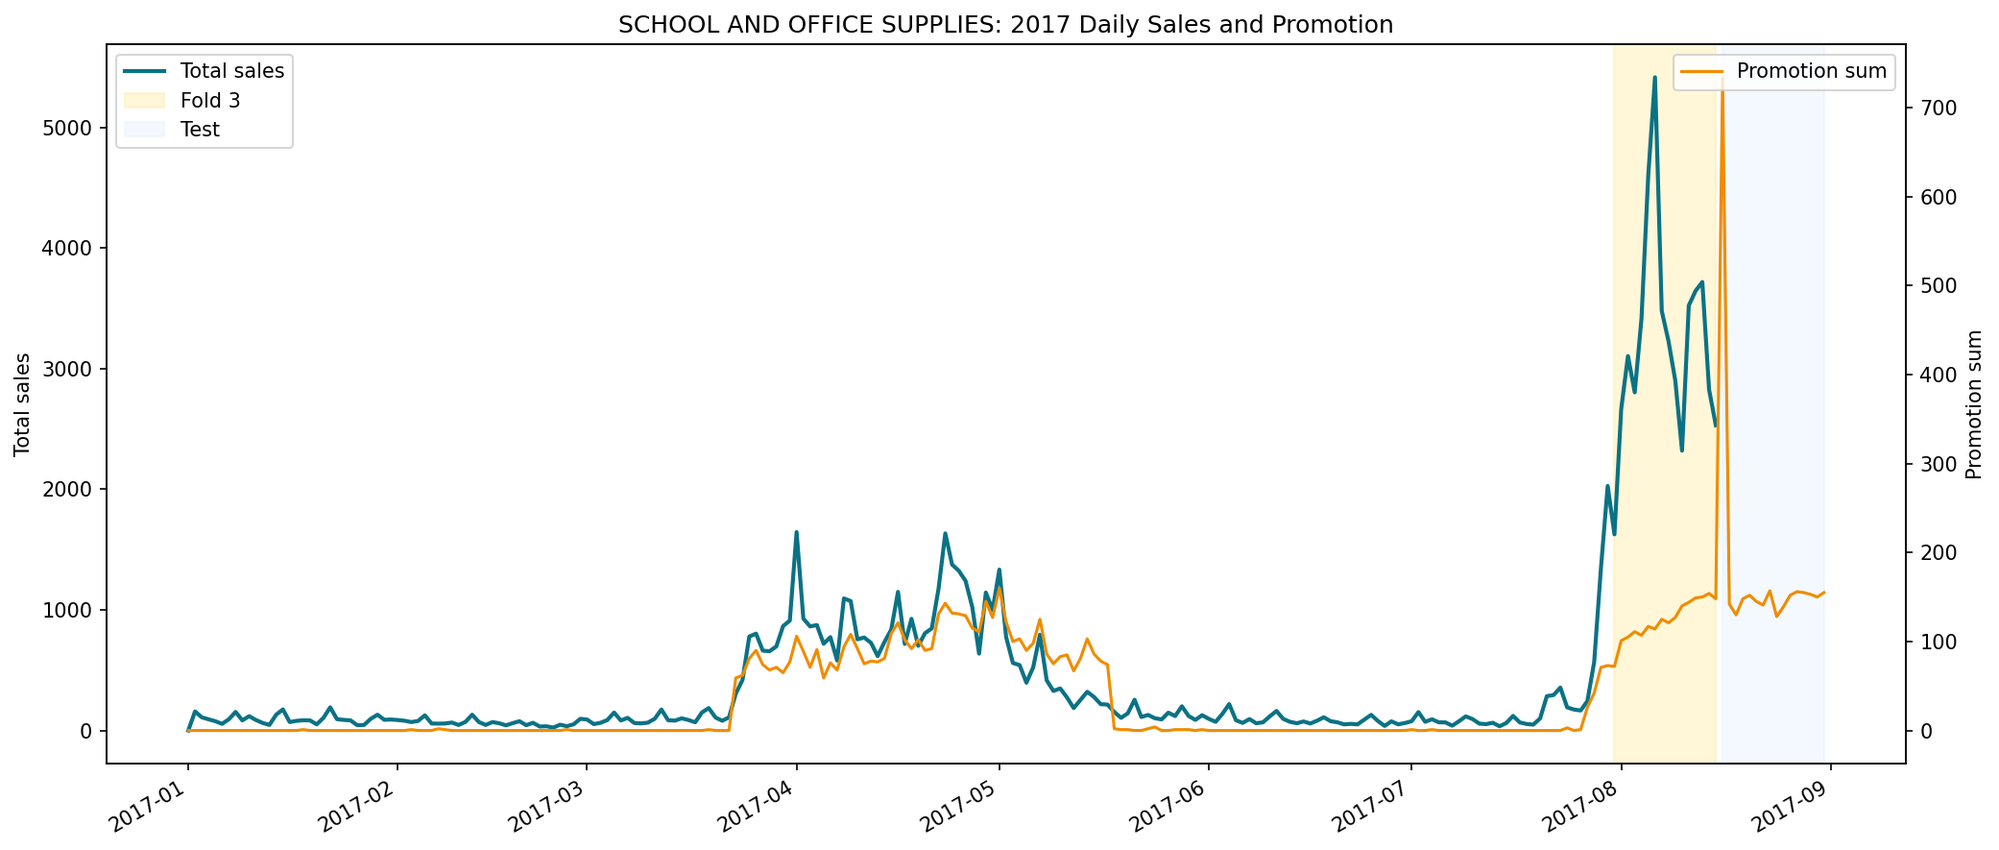
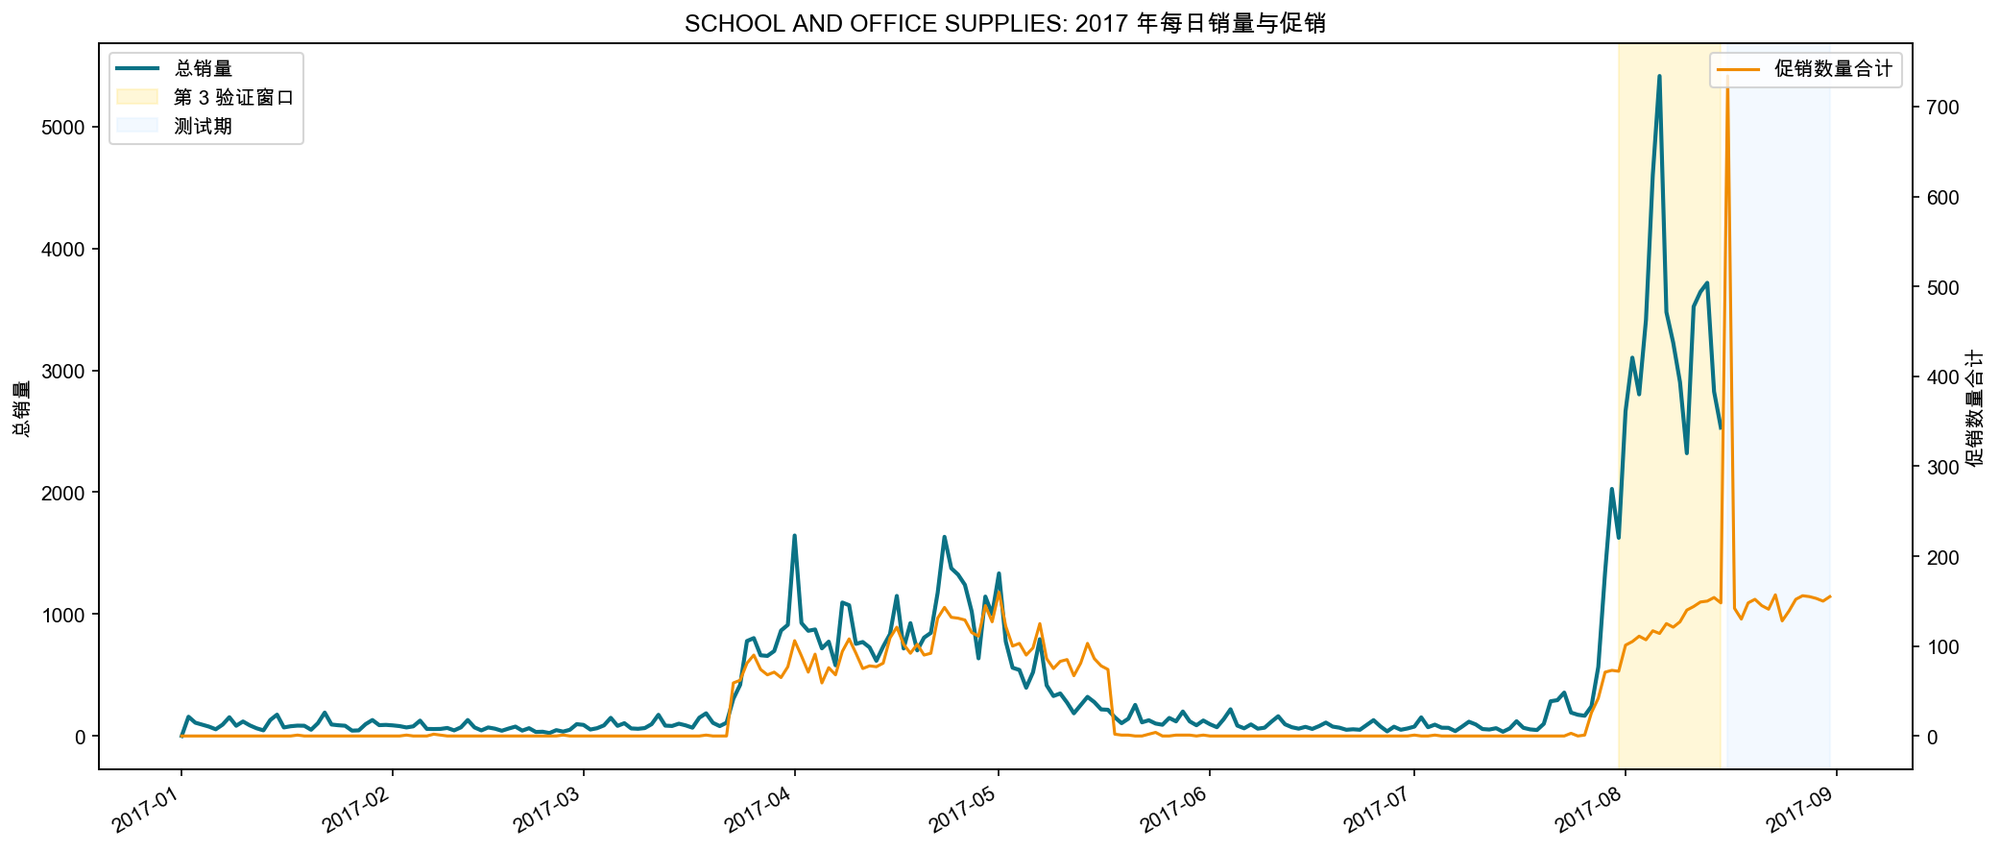
docs: localize family focus report

diff --git a/src/store_sales/family_focus_analysis.py b/src/store_sales/family_focus_analysis.py
@@ -25,8 +25,42 @@ from store_sales.error_analysis import (
 from store_sales.fold3_cross_error import compare_target_fold_to_prior
 
 
+plt.rcParams["font.sans-serif"] = ["PingFang SC", "Arial Unicode MS", "Noto Sans CJK SC", "SimHei", "DejaVu Sans"]
+plt.rcParams["axes.unicode_minus"] = False
+
 DEFAULT_FAMILY = "SCHOOL AND OFFICE SUPPLIES"
 SUPPORTED_TARGET_FOLD = 3
+REPORT_COLUMN_NAMES = {
+    "fold_id": "验证窗口",
+    "row_count": "样本数",
+    "rmsle": "RMSLE",
+    "mean_actual_sales": "真实销量均值",
+    "mean_predicted_sales": "预测销量均值",
+    "mean_signed_error": "平均预测误差",
+    "mean_onpromotion": "促销数量均值",
+    "year": "年份",
+    "month": "月份",
+    "total_sales": "总销量",
+    "promotion_sum": "促销数量合计",
+    "mean_sales": "销量均值",
+    "store_nbr": "门店编号",
+    "city": "城市",
+    "store_type": "门店类型",
+    "cluster": "门店簇",
+    "promotion_bin": "促销分箱",
+    "fold3_row_count": "第 3 窗口样本数",
+    "fold3_rmsle": "第 3 窗口 RMSLE",
+    "prior_rmsle": "前序窗口 RMSLE",
+    "rmsle_delta": "RMSLE 差值",
+    "fold3_error_share": "第 3 窗口误差占比",
+    "fold3_mean_actual_sales": "第 3 窗口真实销量均值",
+    "fold3_mean_predicted_sales": "第 3 窗口预测销量均值",
+    "fold3_mean_onpromotion": "第 3 窗口促销数量均值",
+    "test_row_count": "测试期样本数",
+    "test_mean_onpromotion": "测试期促销数量均值",
+    "test_promotion_sum": "测试期促销数量合计",
+    "has_fold3_error_signal": "是否有第 3 窗口误差信号",
+}
 
 
 @dataclass(slots=True)
@@ -145,6 +179,10 @@ def save_plot(path: Path) -> None:
     plt.tight_layout()
     plt.savefig(path, dpi=150, bbox_inches="tight")
     plt.close()
+
+
+def rename_columns_for_report(frame: pd.DataFrame) -> pd.DataFrame:
+    return frame.rename(columns=REPORT_COLUMN_NAMES)
 
 
 def build_monthly_history(focus_train: pd.DataFrame, paths: FamilyFocusPaths) -> pd.DataFrame:
@@ -312,13 +350,13 @@ def plot_2017_daily(daily: pd.DataFrame, paths: FamilyFocusPaths, family: str) -
     train_part = daily[daily["period"] != "test"].copy()
     fig, ax_sales = plt.subplots(figsize=(14, 6))
     ax_promo = ax_sales.twinx()
-    ax_sales.plot(train_part["date"], train_part["total_sales"], color="#0b7285", linewidth=2, label="Total sales")
-    ax_promo.plot(daily["date"], daily["promotion_sum"], color="#f08c00", linewidth=1.5, label="Promotion sum")
-    ax_sales.axvspan(pd.Timestamp("2017-07-31"), pd.Timestamp("2017-08-15"), color="#ffe066", alpha=0.25, label="Fold 3")
-    ax_sales.axvspan(pd.Timestamp("2017-08-16"), pd.Timestamp("2017-08-31"), color="#d0ebff", alpha=0.25, label="Test")
-    ax_sales.set_title(f"{family}: 2017 Daily Sales and Promotion")
-    ax_sales.set_ylabel("Total sales")
-    ax_promo.set_ylabel("Promotion sum")
+    ax_sales.plot(train_part["date"], train_part["total_sales"], color="#0b7285", linewidth=2, label="总销量")
+    ax_promo.plot(daily["date"], daily["promotion_sum"], color="#f08c00", linewidth=1.5, label="促销数量合计")
+    ax_sales.axvspan(pd.Timestamp("2017-07-31"), pd.Timestamp("2017-08-15"), color="#ffe066", alpha=0.25, label="第 3 验证窗口")
+    ax_sales.axvspan(pd.Timestamp("2017-08-16"), pd.Timestamp("2017-08-31"), color="#d0ebff", alpha=0.25, label="测试期")
+    ax_sales.set_title(f"{family}: 2017 年每日销量与促销")
+    ax_sales.set_ylabel("总销量")
+    ax_promo.set_ylabel("促销数量合计")
     ax_sales.xaxis.set_major_locator(mdates.MonthLocator(interval=1))
     ax_sales.xaxis.set_major_formatter(mdates.DateFormatter("%Y-%m"))
     ax_sales.legend(loc="upper left")
@@ -331,12 +369,12 @@ def plot_monthly_history(monthly: pd.DataFrame, paths: FamilyFocusPaths, family:
     fig, ax = plt.subplots(figsize=(12, 6))
     for year, frame in monthly.groupby("year", observed=True):
         ax.plot(frame["month"], frame["total_sales"], marker="o", linewidth=1.8, label=str(year))
-    ax.set_title(f"{family}: Monthly Total Sales by Year")
-    ax.set_xlabel("Month")
-    ax.set_ylabel("Total sales")
+    ax.set_title(f"{family}: 按年份对比月度总销量")
+    ax.set_xlabel("月份")
+    ax.set_ylabel("总销量")
     ax.set_xticks(range(1, 13))
     ax.grid(axis="y", alpha=0.25)
-    ax.legend(title="Year", ncols=3)
+    ax.legend(title="年份", ncols=3)
     save_plot(paths.figures_dir / "monthly_sales_by_year.png")
 
 
@@ -344,9 +382,9 @@ def plot_fold3_top_stores(store_error: pd.DataFrame, paths: FamilyFocusPaths, fa
     top = store_error.head(10).sort_values("fold3_rmsle")
     labels = top["store_nbr"].astype(str) + " " + top["city"].astype(str)
     fig, ax = plt.subplots(figsize=(10, 6))
-    ax.barh(labels, top["fold3_rmsle"], color="#c92a2a", label="Fold 3")
-    ax.scatter(top["prior_rmsle"], labels, color="#1864ab", label="Prior folds", zorder=3)
-    ax.set_title(f"{family}: Top Fold 3 Store Error")
+    ax.barh(labels, top["fold3_rmsle"], color="#c92a2a", label="第 3 验证窗口")
+    ax.scatter(top["prior_rmsle"], labels, color="#1864ab", label="前序窗口", zorder=3)
+    ax.set_title(f"{family}: 第 3 验证窗口高误差门店")
     ax.set_xlabel("RMSLE")
     ax.legend()
     save_plot(paths.figures_dir / "fold3_top_store_error.png")
@@ -380,6 +418,7 @@ def write_report(
     ].copy()
     fold_display["fold_id"] = fold_display["fold_id"].astype("int64").astype("string")
     fold_display["row_count"] = fold_display["row_count"].astype("int64").astype("string")
+    fold_display = rename_columns_for_report(fold_display)
 
     monthly_display = monthly[monthly["month"].isin([3, 4, 7, 8, 9])][
         ["year", "month", "total_sales", "promotion_sum", "mean_sales", "mean_onpromotion"]
@@ -387,6 +426,7 @@ def write_report(
     monthly_display = monthly_display.copy()
     monthly_display["year"] = monthly_display["year"].astype("int64").astype("string")
     monthly_display["month"] = monthly_display["month"].astype("int64").astype("string")
+    monthly_display = rename_columns_for_report(monthly_display)
     store_columns = [
         "store_nbr",
         "city",
@@ -437,66 +477,73 @@ def write_report(
 
     top_new = new_store_promotion.iloc[0] if not new_store_promotion.empty else None
     top_test_overlap = test_overlap[test_overlap["has_fold3_error_signal"]].head(10)
+    store_display = rename_columns_for_report(store_error[store_columns])
+    store_promotion_display = rename_columns_for_report(store_promotion_error[store_promotion_columns])
+    new_store_promotion_display = rename_columns_for_report(new_store_promotion[new_columns])
+    top_test_overlap_display = rename_columns_for_report(top_test_overlap[test_columns])
+    if "是否有第 3 窗口误差信号" in top_test_overlap_display.columns:
+        top_test_overlap_display["是否有第 3 窗口误差信号"] = top_test_overlap_display["是否有第 3 窗口误差信号"].map(
+            {True: "是", False: "否"}
+        )
 
     lines = [
-        f"# Family Focus Analysis: {family}",
+        f"# 品类单独分析：{family}",
         "",
-        "This report diagnoses one family after fold 3 cross-error analysis. It does not change the model.",
+        "本报告是在第 3 验证窗口交叉误差分析之后，对单个品类做诊断。它只用于定位问题，不改变模型，也不生成新的提交文件。",
         "",
-        "## Key Findings",
+        "## 核心发现",
         "",
-        f"- August 2017 total sales for this family are `{focus_2017_august['total_sales']:.0f}`, much higher than July 2017 and prior August levels.",
-        f"- Fold 3 prediction error is concentrated in high-promotion type A / Quito-Ambato store segments for `{family}`.",
-        f"- Top fold 3 store segment: store `{int(store_error.iloc[0]['store_nbr'])}` in `{store_error.iloc[0]['city']}`.",
-        f"- Test-period promotions continue to be high for type A stores, so this family remains relevant for submission risk.",
+        f"- 2017 年 8 月该品类总销量为 `{focus_2017_august['total_sales']:.0f}`，明显高于 2017 年 7 月和历史 8 月低位。",
+        f"- 第 3 验证窗口误差集中在 `{family}` 的高促销、type A / Quito-Ambato 门店片段。",
+        f"- 第 3 验证窗口误差最高的门店片段是 `{store_error.iloc[0]['city']}` 的门店 `{int(store_error.iloc[0]['store_nbr'])}`。",
+        "- 测试期 type A 门店仍有较高促销，因此这个品类仍然是提交风险点。",
     ]
     if top_new is not None:
         lines.append(
-            f"- Strongest new fold 3 store-promotion segment: store `{int(top_new['store_nbr'])}` "
-            f"with promotion bin `{top_new['promotion_bin']}`, actual mean `{top_new['fold3_mean_actual_sales']:.1f}`, "
-            f"predicted mean `{top_new['fold3_mean_predicted_sales']:.1f}`."
+            f"- 最强第 3 验证窗口新组合是门店 `{int(top_new['store_nbr'])}` + 促销分箱 `{top_new['promotion_bin']}`，"
+            f"真实销量均值 `{top_new['fold3_mean_actual_sales']:.1f}`，预测销量均值 `{top_new['fold3_mean_predicted_sales']:.1f}`。"
         )
 
     lines.extend(
         [
             "",
-            "## Fold Summary",
+            "## 验证窗口汇总",
             "",
             dataframe_to_markdown(fold_display, max_rows=len(fold_display)),
             "",
-            "## Monthly History Snapshot",
+            "## 月度历史快照",
             "",
             dataframe_to_markdown(monthly_display, max_rows=len(monthly_display)),
             "",
-            "## Fold 3 Store Error",
+            "## 第 3 验证窗口门店误差",
             "",
-            dataframe_to_markdown(store_error[store_columns]),
+            dataframe_to_markdown(store_display),
             "",
-            "## Fold 3 Store Promotion Error",
+            "## 第 3 验证窗口门店促销误差",
             "",
-            "This table prioritizes segments that can be compared against prior folds. Fold 3-only high-promotion segments are shown in the next table.",
+            "这张表优先展示能和前序窗口对比的片段。只在第 3 验证窗口出现的高促销组合见下一张表。",
             "",
-            dataframe_to_markdown(store_promotion_error[store_promotion_columns]),
+            dataframe_to_markdown(store_promotion_display),
             "",
-            "## New Fold 3 Store Promotion Segments",
+            "## 第 3 验证窗口新出现的门店促销组合",
             "",
-            "These store-promotion combinations appear in fold 3 but not in prior folds for this family.",
+            "这些门店-促销组合在该品类的第 3 验证窗口中出现，但没有出现在前序窗口中。",
             "",
-            dataframe_to_markdown(new_store_promotion[new_columns]),
+            dataframe_to_markdown(new_store_promotion_display),
             "",
-            "## Test Promotion Risk Overlap",
+            "## 测试期促销风险重叠",
             "",
-            dataframe_to_markdown(top_test_overlap[test_columns], max_rows=10),
+            dataframe_to_markdown(top_test_overlap_display, max_rows=10),
             "",
-            "## Figures",
+            "## 图表",
             "",
-            "![2017 daily sales and promotion](figures/daily_2017_sales_promotion.png)",
+            "![2017 年每日销量与促销](figures/daily_2017_sales_promotion.png)",
             "",
-            "![Monthly sales by year](figures/monthly_sales_by_year.png)",
+            "![按年份对比月度销量](figures/monthly_sales_by_year.png)",
             "",
-            "![Fold 3 top store error](figures/fold3_top_store_error.png)",
+            "![第 3 验证窗口高误差门店](figures/fold3_top_store_error.png)",
             "",
-            "## Generated Tables",
+            "## 生成的表格",
             "",
             "- `tables/monthly_history.csv`",
             "- `tables/daily_2017_focus.csv`",
@@ -506,12 +553,12 @@ def write_report(
             "- `tables/family_fold3_new_store_promotion_segments.csv`",
             "- `tables/test_promotion_risk_overlap.csv`",
             "",
-            "## Interpretation",
+            "## 解释与判断",
             "",
-            "- The evidence supports a targeted issue for this family, not a general low-demand fix.",
-            "- The data shows underprediction in fold 3 high-promotion type A / Quito-Ambato store segments.",
-            "- The next feature experiment should target August timing and promotion behavior for this family; a school-season explanation remains a hypothesis.",
-            "- This report is diagnostic; it does not prove the external business cause of the pattern.",
+            "- 现有证据支持这是该品类的局部问题，不适合继续用泛化低需求特征处理。",
+            "- 第 3 验证窗口中，高促销、type A / Quito-Ambato 门店片段存在明显低估。",
+            "- 下一步特征实验应优先针对该品类的 8 月时间效应和促销响应；“开学季”只能作为待验证假设。",
+            "- 本报告是诊断报告，只能说明数据模式和模型误差集中位置，不能证明外部业务原因。",
         ]
     )
     paths.report_path.write_text("\n".join(lines) + "\n", encoding="utf-8")

diff --git a/reports/family_focus/school_office_supplies/family_focus_report.md b/reports/family_focus/school_office_supplies/family_focus_report.md
@@ -1,26 +1,26 @@
-# Family Focus Analysis: SCHOOL AND OFFICE SUPPLIES
+# 品类单独分析：SCHOOL AND OFFICE SUPPLIES
 
-This report diagnoses one family after fold 3 cross-error analysis. It does not change the model.
+本报告是在第 3 验证窗口交叉误差分析之后，对单个品类做诊断。它只用于定位问题，不改变模型，也不生成新的提交文件。
 
-## Key Findings
+## 核心发现
 
-- August 2017 total sales for this family are `50169`, much higher than July 2017 and prior August levels.
-- Fold 3 prediction error is concentrated in high-promotion type A / Quito-Ambato store segments for `SCHOOL AND OFFICE SUPPLIES`.
-- Top fold 3 store segment: store `47` in `Quito`.
-- Test-period promotions continue to be high for type A stores, so this family remains relevant for submission risk.
-- Strongest new fold 3 store-promotion segment: store `47` with promotion bin `11-50`, actual mean `538.4`, predicted mean `33.6`.
+- 2017 年 8 月该品类总销量为 `50169`，明显高于 2017 年 7 月和历史 8 月低位。
+- 第 3 验证窗口误差集中在 `SCHOOL AND OFFICE SUPPLIES` 的高促销、type A / Quito-Ambato 门店片段。
+- 第 3 验证窗口误差最高的门店片段是 `Quito` 的门店 `47`。
+- 测试期 type A 门店仍有较高促销，因此这个品类仍然是提交风险点。
+- 最强第 3 验证窗口新组合是门店 `47` + 促销分箱 `11-50`，真实销量均值 `538.4`，预测销量均值 `33.6`。
 
-## Fold Summary
+## 验证窗口汇总
 
-| fold_id | row_count | rmsle | mean_actual_sales | mean_predicted_sales | mean_signed_error | mean_onpromotion |
+| 验证窗口 | 样本数 | RMSLE | 真实销量均值 | 预测销量均值 | 平均预测误差 | 促销数量均值 |
 | --- | --- | --- | --- | --- | --- | --- |
 | 1 | 864 | 0.434057 | 1.366898 | 1.274311 | -0.092587 | 0.002315 |
 | 2 | 864 | 0.641590 | 7.063657 | 1.332382 | -5.731276 | 0.250000 |
 | 3 | 864 | 0.866511 | 59.947917 | 18.501496 | -41.446421 | 2.297454 |
 
-## Monthly History Snapshot
+## 月度历史快照
 
-| year | month | total_sales | promotion_sum | mean_sales | mean_onpromotion |
+| 年份 | 月份 | 总销量 | 促销数量合计 | 销量均值 | 促销数量均值 |
 | --- | --- | --- | --- | --- | --- |
 | 2013 | 9 | 0.000000 | 0 | 0.000000 | 0.000000 |
 | 2014 | 3 | 2235.000000 | 0 | 1.335125 | 0.000000 |
@@ -43,9 +43,9 @@ This report diagnoses one family after fold 3 cross-error analysis. It does not 
 | 2017 | 7 | 8797.000000 | 290 | 5.255078 | 0.173238 |
 | 2017 | 8 | 50169.000000 | 1913 | 61.937038 | 2.361728 |
 
-## Fold 3 Store Error
+## 第 3 验证窗口门店误差
 
-| store_nbr | city | store_type | cluster | fold3_rmsle | prior_rmsle | rmsle_delta | fold3_mean_actual_sales | fold3_mean_predicted_sales | fold3_mean_onpromotion |
+| 门店编号 | 城市 | 门店类型 | 门店簇 | 第 3 窗口 RMSLE | 前序窗口 RMSLE | RMSLE 差值 | 第 3 窗口真实销量均值 | 第 3 窗口预测销量均值 | 第 3 窗口促销数量均值 |
 | --- | --- | --- | --- | --- | --- | --- | --- | --- | --- |
 | 47 | Quito | A | 14 | 2.735861 | 0.721499 | 2.014362 | 523.437500 | 32.604855 | 12.000000 |
 | 44 | Quito | A | 5 | 2.665396 | 0.591897 | 2.073498 | 393.750000 | 25.889929 | 12.000000 |
@@ -58,11 +58,11 @@ This report diagnoses one family after fold 3 cross-error analysis. It does not 
 | 51 | Guayaquil | A | 17 | 0.847989 | 0.584243 | 0.263745 | 3.875000 | 4.396971 | 0.000000 |
 | 17 | Quito | C | 12 | 0.588754 | 0.235964 | 0.352790 | 11.562500 | 4.956986 | 2.000000 |
 
-## Fold 3 Store Promotion Error
+## 第 3 验证窗口门店促销误差
 
-This table prioritizes segments that can be compared against prior folds. Fold 3-only high-promotion segments are shown in the next table.
+这张表优先展示能和前序窗口对比的片段。只在第 3 验证窗口出现的高促销组合见下一张表。
 
-| store_nbr | city | store_type | promotion_bin | fold3_row_count | fold3_rmsle | prior_rmsle | rmsle_delta | fold3_mean_actual_sales | fold3_mean_predicted_sales |
+| 门店编号 | 城市 | 门店类型 | 促销分箱 | 第 3 窗口样本数 | 第 3 窗口 RMSLE | 前序窗口 RMSLE | RMSLE 差值 | 第 3 窗口真实销量均值 | 第 3 窗口预测销量均值 |
 | --- | --- | --- | --- | --- | --- | --- | --- | --- | --- |
 | 38 | Loja | D | 0 | 16 | 1.244050 | 0.182788 | 1.061263 | 4.937500 | 0.208907 |
 | 9 | Quito | B | 6-10 | 15 | 1.501075 | 0.893248 | 0.607827 | 145.200000 | 31.893541 |
@@ -75,11 +75,11 @@ This table prioritizes segments that can be compared against prior folds. Fold 3
 | 26 | Guayaquil | D | 0 | 16 | 0.505743 | 0.428631 | 0.077112 | 0.812500 | 0.446550 |
 | 31 | Babahoyo | B | 0 | 15 | 0.631314 | 0.568273 | 0.063041 | 1.466667 | 1.639388 |
 
-## New Fold 3 Store Promotion Segments
+## 第 3 验证窗口新出现的门店促销组合
 
-These store-promotion combinations appear in fold 3 but not in prior folds for this family.
+这些门店-促销组合在该品类的第 3 验证窗口中出现，但没有出现在前序窗口中。
 
-| store_nbr | city | store_type | promotion_bin | fold3_row_count | fold3_rmsle | fold3_error_share | fold3_mean_actual_sales | fold3_mean_predicted_sales |
+| 门店编号 | 城市 | 门店类型 | 促销分箱 | 第 3 窗口样本数 | 第 3 窗口 RMSLE | 第 3 窗口误差占比 | 第 3 窗口真实销量均值 | 第 3 窗口预测销量均值 |
 | --- | --- | --- | --- | --- | --- | --- | --- | --- |
 | 47 | Quito | A | 11-50 | 15 | 2.733045 | 0.172712 | 538.400000 | 33.601619 |
 | 44 | Quito | A | 11-50 | 15 | 2.697563 | 0.168257 | 414.200000 | 26.982084 |
@@ -92,30 +92,30 @@ These store-promotion combinations appear in fold 3 but not in prior folds for t
 | 15 | Ibarra | C | 2-5 | 7 | 0.657461 | 0.004664 | 9.857143 | 7.222817 |
 | 11 | Cayambe | B | 6-10 | 9 | 0.509424 | 0.003600 | 27.666667 | 19.293776 |
 
-## Test Promotion Risk Overlap
+## 测试期促销风险重叠
 
-| store_nbr | city | store_type | promotion_bin | test_row_count | test_mean_onpromotion | test_promotion_sum | has_fold3_error_signal | fold3_rmsle | fold3_error_share |
+| 门店编号 | 城市 | 门店类型 | 促销分箱 | 测试期样本数 | 测试期促销数量均值 | 测试期促销数量合计 | 是否有第 3 窗口误差信号 | 第 3 窗口 RMSLE | 第 3 窗口误差占比 |
 | --- | --- | --- | --- | --- | --- | --- | --- | --- | --- |
-| 50 | Ambato | A | 11-50 | 16 | 12.687500 | 203 | True | 2.254764 | 0.117552 |
-| 46 | Quito | A | 11-50 | 16 | 12.687500 | 203 | True | 0.588554 | 0.006942 |
-| 45 | Quito | A | 11-50 | 16 | 12.250000 | 196 | True | 0.896901 | 0.019840 |
-| 44 | Quito | A | 11-50 | 16 | 12.062500 | 193 | True | 2.697563 | 0.168257 |
-| 48 | Quito | A | 11-50 | 16 | 12.062500 | 193 | True | 2.561915 | 0.131526 |
-| 47 | Quito | A | 11-50 | 15 | 12.466667 | 187 | True | 2.733045 | 0.172712 |
-| 49 | Quito | A | 11-50 | 15 | 12.266667 | 184 | True | 0.355467 | 0.002922 |
-| 9 | Quito | B | 6-10 | 15 | 8.133333 | 122 | True | 1.501075 | 0.052100 |
-| 20 | Quito | B | 6-10 | 11 | 8.090909 | 89 | True | 1.243681 | 0.021458 |
-| 11 | Cayambe | B | 6-10 | 11 | 7.818182 | 86 | True | 0.509424 | 0.003600 |
+| 50 | Ambato | A | 11-50 | 16 | 12.687500 | 203 | 是 | 2.254764 | 0.117552 |
+| 46 | Quito | A | 11-50 | 16 | 12.687500 | 203 | 是 | 0.588554 | 0.006942 |
+| 45 | Quito | A | 11-50 | 16 | 12.250000 | 196 | 是 | 0.896901 | 0.019840 |
+| 44 | Quito | A | 11-50 | 16 | 12.062500 | 193 | 是 | 2.697563 | 0.168257 |
+| 48 | Quito | A | 11-50 | 16 | 12.062500 | 193 | 是 | 2.561915 | 0.131526 |
+| 47 | Quito | A | 11-50 | 15 | 12.466667 | 187 | 是 | 2.733045 | 0.172712 |
+| 49 | Quito | A | 11-50 | 15 | 12.266667 | 184 | 是 | 0.355467 | 0.002922 |
+| 9 | Quito | B | 6-10 | 15 | 8.133333 | 122 | 是 | 1.501075 | 0.052100 |
+| 20 | Quito | B | 6-10 | 11 | 8.090909 | 89 | 是 | 1.243681 | 0.021458 |
+| 11 | Cayambe | B | 6-10 | 11 | 7.818182 | 86 | 是 | 0.509424 | 0.003600 |
 
-## Figures
+## 图表
 
-![2017 daily sales and promotion](figures/daily_2017_sales_promotion.png)
+![2017 年每日销量与促销](figures/daily_2017_sales_promotion.png)
 
-![Monthly sales by year](figures/monthly_sales_by_year.png)
+![按年份对比月度销量](figures/monthly_sales_by_year.png)
 
-![Fold 3 top store error](figures/fold3_top_store_error.png)
+![第 3 验证窗口高误差门店](figures/fold3_top_store_error.png)
 
-## Generated Tables
+## 生成的表格
 
 - `tables/monthly_history.csv`
 - `tables/daily_2017_focus.csv`
@@ -125,9 +125,9 @@ These store-promotion combinations appear in fold 3 but not in prior folds for t
 - `tables/family_fold3_new_store_promotion_segments.csv`
 - `tables/test_promotion_risk_overlap.csv`
 
-## Interpretation
+## 解释与判断
 
-- The evidence supports a targeted issue for this family, not a general low-demand fix.
-- The data shows underprediction in fold 3 high-promotion type A / Quito-Ambato store segments.
-- The next feature experiment should target August timing and promotion behavior for this family; a school-season explanation remains a hypothesis.
-- This report is diagnostic; it does not prove the external business cause of the pattern.
+- 现有证据支持这是该品类的局部问题，不适合继续用泛化低需求特征处理。
+- 第 3 验证窗口中，高促销、type A / Quito-Ambato 门店片段存在明显低估。
+- 下一步特征实验应优先针对该品类的 8 月时间效应和促销响应；“开学季”只能作为待验证假设。
+- 本报告是诊断报告，只能说明数据模式和模型误差集中位置，不能证明外部业务原因。
